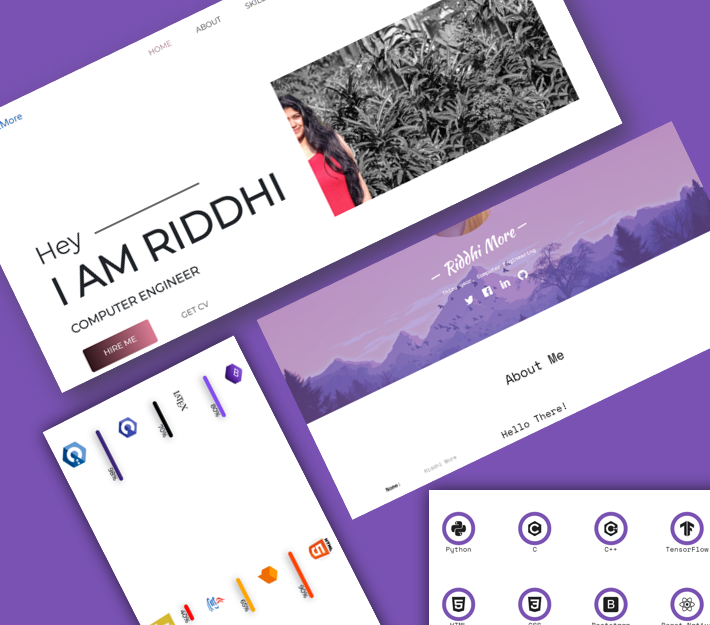
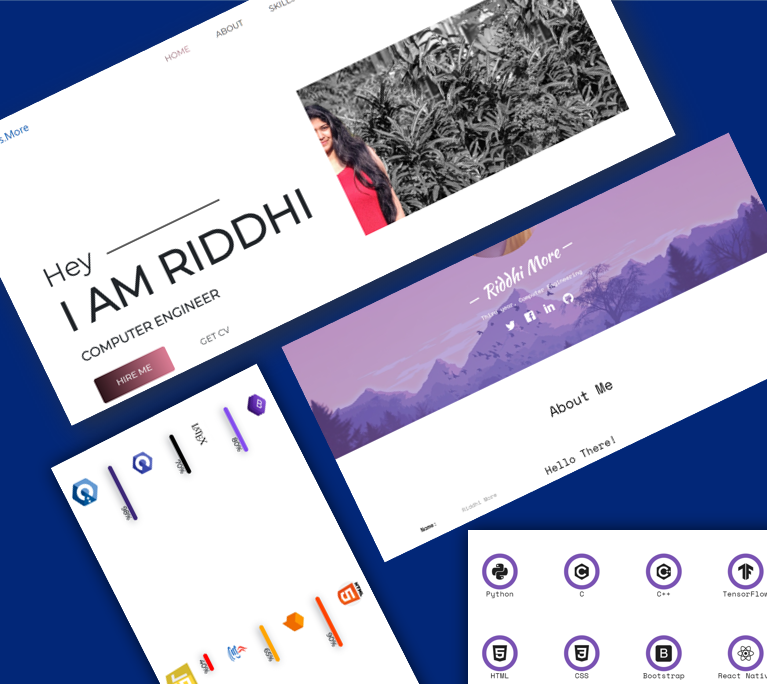
changed theme

diff --git a/css/style.css b/css/style.css
@@ -21,6 +21,7 @@ body {
   color: #000000;
   background: rgb(255, 255, 255);
   overflow-x: hidden;
+
 }
 
 #page {
@@ -31,6 +32,7 @@ body {
   -webkit-transition: 0.5s;
   -o-transition: 0.5s;
   transition: 0.5s;
+
 }
 .offcanvas #page {
   overflow: hidden;
@@ -51,13 +53,13 @@ body {
 }
 
 a {
-  color: #7952B3;
+  color: #022778;
   -webkit-transition: 0.5s;
   -o-transition: 0.5s;
   transition: 0.5s;
 }
 a:hover, a:active, a:focus {
-  color: #7952B3;
+  color: #022778;
   outline: none;
   text-decoration: none;
 }
@@ -78,17 +80,17 @@ h1, h2, h3, h4, h5, h6, figure {
 
 ::-webkit-selection {
   color: #fff;
-  background: #7952B3;
+  background: #FFC107;
 }
 
 ::-moz-selection {
   color: #fff;
-  background: #7952B3;
+  background: #FFC107;
 }
 
 ::selection {
   color: #fff;
-  background: #7952B3;
+  background: #FFC107;
 }
 
 #fh5co-header,
@@ -107,7 +109,7 @@ h1, h2, h3, h4, h5, h6, figure {
   bottom: 0;
   left: 0;
   right: 0;
-  background: rgb(121, 82, 179,0.5);
+  background: rgba(0, 0, 0, 0.672);
 }
 #fh5co-header .display-t,
 .fh5co-cover .display-t {
@@ -177,7 +179,7 @@ h1, h2, h3, h4, h5, h6, figure {
   line-height: 1.55;
   margin: 0 auto;
   text-align: center;
-  box-shadow: 0 0 0 10px #7952B3;
+  box-shadow: 0 0 0 10px #022778;
   display: block;
 }
 
@@ -191,7 +193,7 @@ h1, h2, h3, h4, h5, h6, figure {
 .service-box:hover .ico-circle {
   transition: all 500ms ease;
   color: #FFf;
-  background-color: #7952B3;
+  background-color: #022778;
   box-shadow: 0 0 0 20px #d3c5e6;
 }
 
@@ -265,8 +267,8 @@ h1, h2, h3, h4, h5, h6, figure {
   background-position: center center;
   background-repeat: no-repeat;
   position: relative;
-  height: 300px;
-  width: 300px;
+  height: 200px;
+  width: 200px;
   margin: 0 auto;
   margin-bottom: 30px;
   -webkit-border-radius: 50%;
@@ -286,7 +288,7 @@ h1, h2, h3, h4, h5, h6, figure {
 color: #FFC107;
 }
 #fh5co-features {
-  background: #7952B3;
+  background: #022778;
 }
 #fh5co-features h2 {
   color: #fff;
@@ -321,11 +323,11 @@ color: #FFC107;
   display: table-cell;
   vertical-align: middle;
   height: 100px;
-  color: #7952B3 !important;
+  color: #022778 !important;
 }
 #fh5co-features .feature-left .icon:hover i {
 color: white !important;
-background: #7952B3;
+background: #022778;
 
 }
 #fh5co-features .feature-left .feature-copy {
@@ -377,7 +379,7 @@ background: #7952B3;
 
 .fh5co-bg-dark {
   background: #2F3C4F;
-  background: #7952B3;
+  background: #022778;
 }
 .fh5co-bg-dark .fh5co-heading h2 {
   color: #fff !important;
@@ -434,7 +436,7 @@ background: #7952B3;
   display: inline-block;
   zoom: 1;
   *display: inline;
-  color: #7952B3;
+  color: #022778;
   padding-left: 10px;
   padding-right: 10px;
 }
@@ -471,7 +473,7 @@ background: #7952B3;
   font-size: 20px;
 }
 #fh5co-about .fh5co-social-icons li a:hover {
-  background: #7952B3;
+  background: #022778;
 }
 
 
@@ -602,7 +604,7 @@ background: #7952B3;
   top: 40px;
   left: 50%;
   margin-left: -21px;
-  background-color: #7952B3;
+  background-color: #022778;
   z-index: 100;
   display: table;
   -webkit-border-radius: 50%;
@@ -875,7 +877,7 @@ background: #7952B3;
   height: 54px;
   border: none !important;
   background: #fff;
-  color: #7952B3;
+  color: #022778;
   font-size: 16px;
   text-transform: uppercase;
   font-weight: 400;

diff --git a/index.html b/index.html
@@ -11,7 +11,7 @@
 
 	
 	<meta property="og:title" content="Riddhi More"/>
-	<meta property="og:image" content="images/pic.PNG"/>
+	<meta property="og:image" content="images/pic1.PNG"/>
 	<meta property="og:url" content="http://MsMore.github.io"/>
 	<meta property="og:site_name" content="Riddhi's Portfolio"/>
 	<meta property="og:description" content=""/>
@@ -47,14 +47,14 @@
 	<div class="fh5co-loader"></div>
 	
 	<div id="page">	
-	<header id="fh5co-header" class="fh5co-cover js-fullheight" role="banner" style="background-image:url(images/cover_bg_3.jpg);" data-stellar-background-ratio="0.5">
+	<header id="fh5co-header" class="fh5co-cover js-fullheight" role="banner" style="background-image:url(images/bg1.PNG);" data-stellar-background-ratio="0.5">
 		<div class="overlay"></div>
 		<div class="container">
 			<div class="row">
 				<div class="col-md-8 col-md-offset-2 text-center">
 					<div class="display-t js-fullheight">
 						<div class="display-tc js-fullheight animate-box" data-animate-effect="fadeIn">
-							<div class="profile-thumb" style="background: url(images/pic.PNG);"></div>
+							<div class="profile-thumb" style="background: url(images/pic.jpg);"></div>
 							<h1><span>Riddhi More</span></h1>
 							<h3><span> Third year, Computer Engineering</span></h3>
 							<p>
